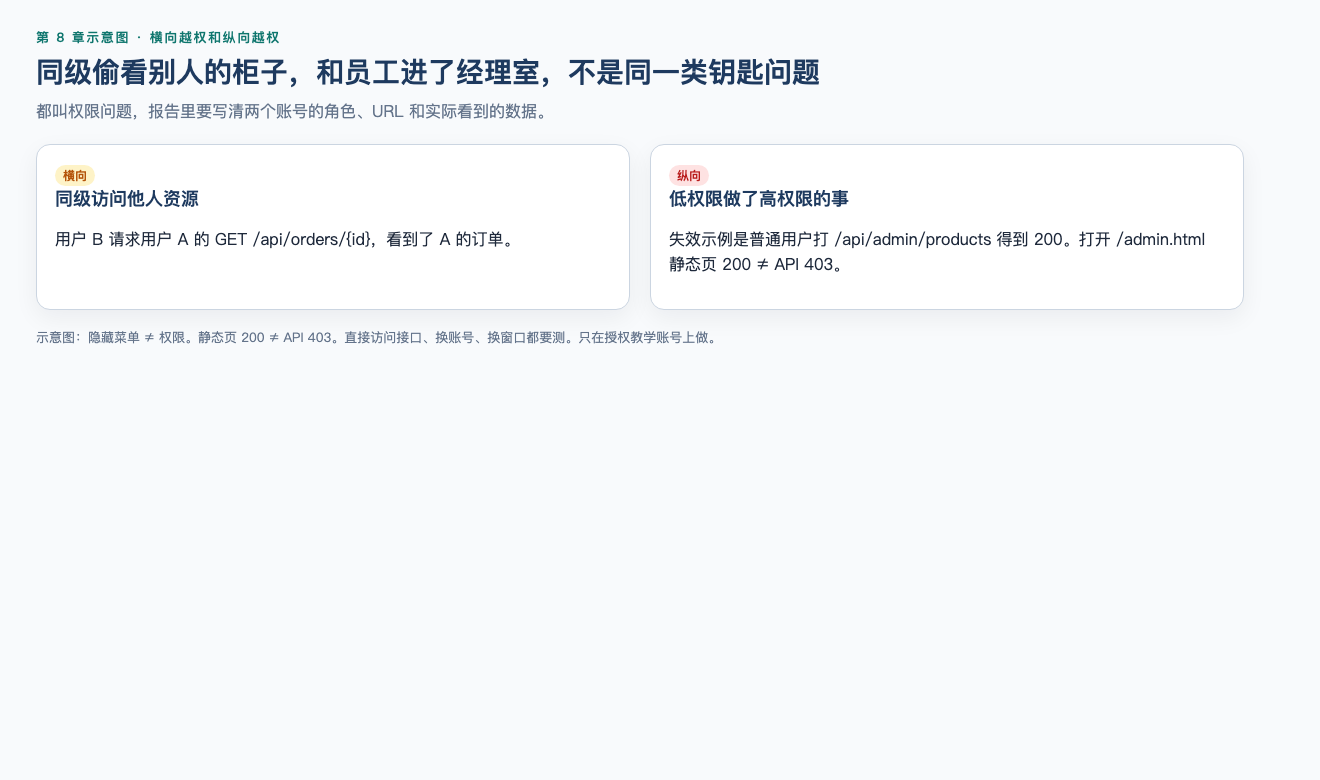
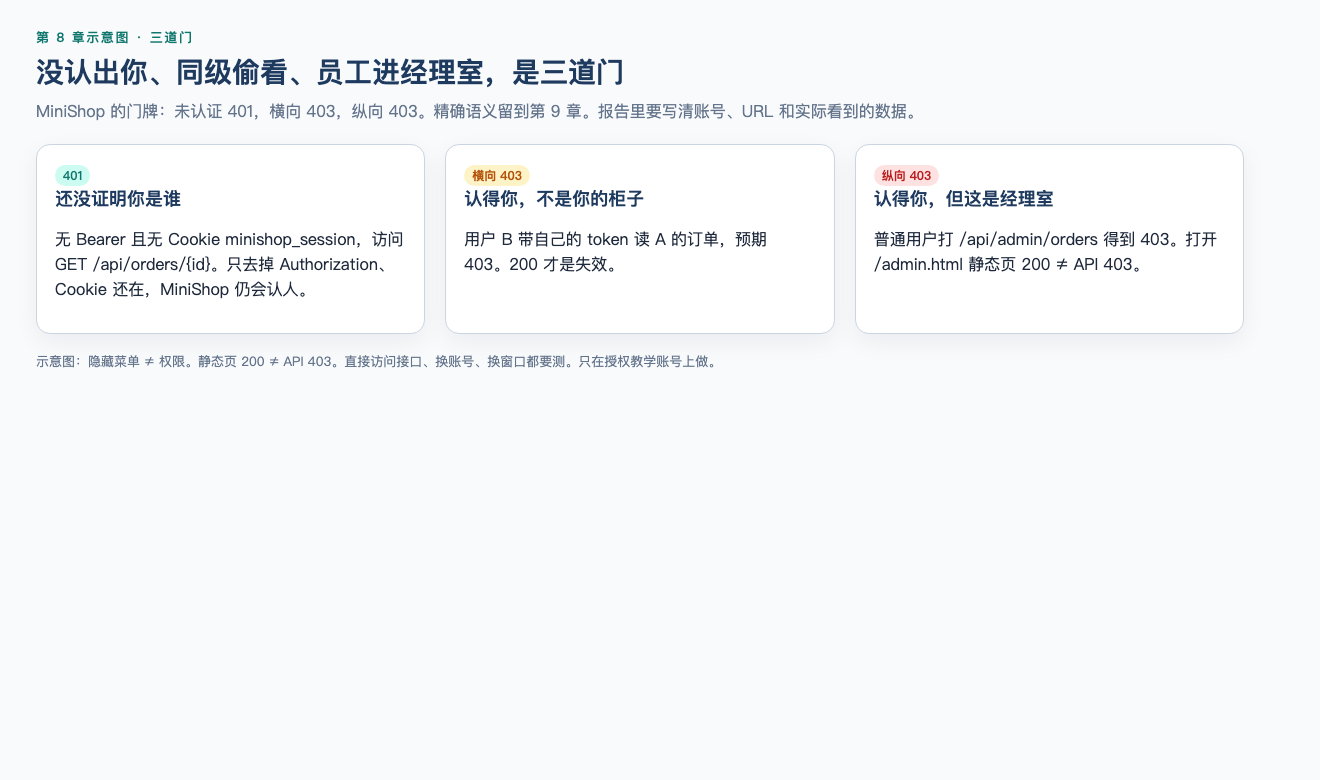
fix(ch08): spell out Cookie fallback versus 401
401 is no Bearer and no session cookie. GET /api/orders without id is 404.
Empty-search screenshot is not BUG-001 evidence. Drop captcha from v1.0 checks.

Changed region(s): [[0.0311, 0.2154, 0.9318, 0.4923], [0.0311, 0.0308, 0.6833, 0.1538]]

diff --git a/chapters/assets/diagrams/ch08-privilege.html b/chapters/assets/diagrams/ch08-privilege.html
@@ -1,9 +1,9 @@
 <!DOCTYPE html>
-<html lang="zh-CN"><head><meta charset="utf-8"><link rel="stylesheet" href="_theme.css"><title>同级偷看别人的柜子，和员工进了经理室，不是同一类钥匙问题</title></head>
+<html lang="zh-CN"><head><meta charset="utf-8"><link rel="stylesheet" href="_theme.css"><title>没认出你、同级偷看、员工进经理室，是三道门</title></head>
 <body><div class="page">
-<p class="kicker">第 8 章示意图 · 横向越权和纵向越权</p>
-<h1>同级偷看别人的柜子，和员工进了经理室，不是同一类钥匙问题</h1>
-<p class="lead">都叫权限问题，报告里要写清两个账号的角色、URL 和实际看到的数据。</p>
-<div class="row"><div class="col card"><span class="tag tag-warn">横向</span><h2>同级访问他人资源</h2><p style="font-size:16px;line-height:1.55">用户 B 请求用户 A 的 GET /api/orders/{id}，看到了 A 的订单。</p></div><div class="col card"><span class="tag tag-bad">纵向</span><h2>低权限做了高权限的事</h2><p style="font-size:16px;line-height:1.55">失效示例是普通用户打 /api/admin/products 得到 200。打开 /admin.html 静态页 200 ≠ API 403。</p></div></div>
+<p class="kicker">第 8 章示意图 · 三道门</p>
+<h1>没认出你、同级偷看、员工进经理室，是三道门</h1>
+<p class="lead">MiniShop 的门牌：未认证 401，横向 403，纵向 403。精确语义留到第 9 章。报告里要写清账号、URL 和实际看到的数据。</p>
+<div class="row"><div class="col card"><span class="tag tag-info">401</span><h2>还没证明你是谁</h2><p style="font-size:16px;line-height:1.55">无 Bearer 且无 Cookie minishop_session，访问 GET /api/orders/{id}。只去掉 Authorization、Cookie 还在，MiniShop 仍会认人。</p></div><div class="col card"><span class="tag tag-warn">横向 403</span><h2>认得你，不是你的柜子</h2><p style="font-size:16px;line-height:1.55">用户 B 带自己的 token 读 A 的订单，预期 403。200 才是失效。</p></div><div class="col card"><span class="tag tag-bad">纵向 403</span><h2>认得你，但这是经理室</h2><p style="font-size:16px;line-height:1.55">普通用户打 /api/admin/orders 得到 403。打开 /admin.html 静态页 200 ≠ API 403。</p></div></div>
 <p class="caption">示意图：隐藏菜单 ≠ 权限。静态页 200 ≠ API 403。直接访问接口、换账号、换窗口都要测。只在授权教学账号上做。</p>
 </div></body></html>

diff --git a/practice/08-privilege/README.md b/practice/08-privilege/README.md
@@ -16,6 +16,8 @@ PRD `R-PERM`：用户不得读写他人订单；非管理员不得访问 `/api/a
 | A | `GET /api/admin/orders` | 403 |
 | 管理员 | `GET /api/admin/orders` | 200 |
 
+脚本替你带的是 **Bearer**。分层观察（Cookie / Session / Token 不是三选一）对照 `project/minishop/evidence/http/01-login-ok.txt`：同一份成功登录里既有 `Set-Cookie` 也有 JSON `token`。未认证 401 不在上表五格里，可自己对 `/api/orders/{id}` **同时去掉** Bearer 和 Cookie `minishop_session` 看一眼；只去掉 Bearer、Cookie 还在，会仍是 200。
+
 ## 最小命令
 
 ```bash
